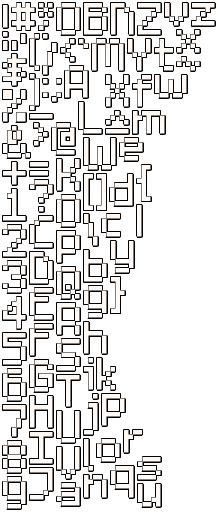
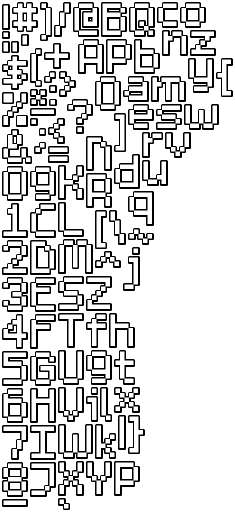
Added the assets to code and coffee
Made a change to the fonr by giving it  larger stroke, removed the smoothing effect from the time display so it doesn't look fuzzy

diff --git a/myGame/js/writeCode.js b/myGame/js/writeCode.js
@@ -3,6 +3,7 @@ code.prototype = {
 	preload: function(){
 		this.load.path = 'assets/img/writeCode/'
 		this.load.atlas('codeTextAtlas','codeTextAtlas.png','codeTextAtlas.json');
+		this.load.image('bg','background.png');
 		this.load.path = 'assets/fonts/';
 		this.load.bitmapFont('font','m5x7.png','m5x7.xml');
 	},
@@ -13,8 +14,10 @@ code.prototype = {
 				'FOCUS','WORTH','ACCOUNT','BENEFIT','COMPANY','DEFICIT','ECONOMY','MANAGER','PENSION'];
 
 
+		game.add.image(0,0,'bg');
+
 		stageTimer = game.time.create(false);
-		stageTimer.add(30000,function(){console.log('AAAAAAAAAAAAAAAAAAAAAAAAAAAAAAAAAAAAAAAAAAAAAAAAAAAAAAAAAAAAAAAAAAAAAAAAAAAAAAAAAAAAAAAAAAAAAAAAAAAAAAAAAAAAAAAAAA')},game);
+		stageTimer.add(30000,function(){console.log('timer'), game.state.start('alarmClock')},game);
 		stageTimer.start();
 
 		wordsNeeded = 5;
@@ -27,7 +30,7 @@ code.prototype = {
 	 	enter.onDown.add(this.enterLetter,this);
 
 	 	//starting position of the "on screen keyboard"
-		var y = 400;
+		var y = 390;
 		var x = 0;
 		//the letter they are on
 		index = 1;
@@ -42,13 +45,13 @@ code.prototype = {
 				id = '' + i;
 			}
 			if(i==14){
-				y = 460;
+				y = 450;
 				x = 0;
 			}
 			if(i==24){
 				x+=6
 			}
-			this.add.sprite(x+16,y,'codeTextAtlas',id);
+			letter = this.add.sprite(x+16,y,'codeTextAtlas',id);
 			x+=36;
 		}
 		text = 'hi';
@@ -61,13 +64,21 @@ code.prototype = {
     	down = game.input.keyboard.addKey(Phaser.Keyboard.S);
     	left = game.input.keyboard.addKey(Phaser.Keyboard.A);
     	right = game.input.keyboard.addKey(Phaser.Keyboard.D);
+    	upKey = game.input.keyboard.addKey(Phaser.Keyboard.UP);
+    	downKey = game.input.keyboard.addKey(Phaser.Keyboard.DOWN);
+    	leftKey = game.input.keyboard.addKey(Phaser.Keyboard.LEFT);
+    	rightKey = game.input.keyboard.addKey(Phaser.Keyboard.RIGHT);
 
     	scoreDisplay = new Score();
+    	healthBG = new HealthBG();
+    	healthDisplay = new Health();
 
     	scoreWord = words[Math.floor(Math.random() * words.length)];
-		typeThis = game.add.bitmapText(game.world.centerX-200,game.world.centerY-125,"font", 'TYPE: ' + scoreWord, 60);
-		amountDisplay = game.add.bitmapText(game.world.centerX-200,game.world.centerY-160,"font", 'WORDS LEFT: ' + wordsNeeded, 60);
-
+		typeThis = game.add.bitmapText(game.world.centerX,game.world.centerY-160,"font", 'TYPE: ' + scoreWord, 60);
+		typeThis.anchor.setTo(0.5,0);
+		typeThis.tint = 0x39ff14;
+		amountDisplay = game.add.bitmapText(game.world.centerX,game.world.centerY-125,"font", 'WORDS LEFT: ' + wordsNeeded, 60);
+		amountDisplay.anchor.setTo(0.5,0);
 
 
 	},
@@ -77,7 +88,7 @@ code.prototype = {
 	},
 	move: function(){
 		//move our select cursor and allow it to wrap around the keyboard
-		if(up.justPressed()){
+		if(up.justPressed() || upKey.justPressed()){
 			if(index<13){
 				index+=13;
 				select.y+=60;
@@ -87,7 +98,7 @@ code.prototype = {
 				select.y-=60;
 			}
 		}
-		else if(down.justPressed()){
+		else if(down.justPressed() || downKey.justPressed()){
 			if(index>13){
 				index-=13;
 				select.y-=60;
@@ -97,7 +108,7 @@ code.prototype = {
 				select.y+=60;
 			}
 		}
-		else if(left.justPressed()){
+		else if(left.justPressed() || leftKey.justPressed()){
 			if(index == 1 || index == 14){
 				index+=12;
 				select.x+= (36*12);
@@ -107,7 +118,7 @@ code.prototype = {
 				select.x-=36;
 			}
 		}
-		else if(right.justPressed()){
+		else if(right.justPressed() || rightKey.justPressed()){
 			if(index == 13 || index == 26){
 				index-=12;
 				select.x-=(36*12);
@@ -155,7 +166,7 @@ code.prototype = {
 	},
 	checkWord: function(){
 		if(scoreWord===input.text){
-			score+=15;
+			score+=(scoreWord.length*3);
 			scoreWord = words[Math.floor(Math.random() * words.length)];
 			typeThis.text = 'TYPE: ' + scoreWord;
 			input.text = '';

diff --git a/myGame/js/pourCoffee.js b/myGame/js/pourCoffee.js
@@ -3,8 +3,14 @@ var coffee = function () {
 }
 coffee.prototype = {
 	preload: function () {
-		this.load.path = 'assets/img/';
-		this.load.image('player','playerTemp.png');
+		this.load.path = 'assets/img/coffee/';
+		this.load.image('bg','background.png');
+		this.load.image('light','light.png');
+		this.load.image('mug','coffeeMug.png');
+		this.load.image('plane', '../playerTemp.png');
+
+		this.load.path = 'assets/fonts/';
+        this.load.bitmapFont('font','m5x7.png','m5x7.xml');
 	},
 
 	create: function () {
@@ -13,10 +19,13 @@ coffee.prototype = {
 
 		//timer for the stage
 		stageTimer = game.time.create(false);
-		stageTimer.add(30000, function(){console.log('timer')}, game);
+		stageTimer.add(30000, function(){console.log('timer'), game.state.start('code')}, game);
 		stageTimer.start();
 
-		coffeeJug = this.add.sprite(game.world.centerX,0,'player');
+		bg = game.add.image(0,0,'bg');
+		light = game.add.image(0,0,'light');
+
+		coffeeJug = this.add.sprite(game.world.centerX,0,'plane');
 		game.physics.arcade.enable(coffeeJug);
 		coffeeJug.scale.setTo(3,3);
 		coffeeJug.tint = 4169e1;
@@ -33,20 +42,32 @@ coffee.prototype = {
 		coffeeEmitter.setXSpeed(0,0);
 		coffeeEmitter.setYSpeed(500,500);
 		coffeeEmitter.setRotation(0,0);
-		coffeeEmitter.makeParticles('player',0,4000,true,false);
+		//the amount of particles only needs to be 100 due to killing them later. allowing the emmiter can keep
+		coffeeEmitter.makeParticles('plane',0,50,true,false);
+		coffeeEmitter.forEach(function(particle){particle.tint = 0x8B4513}, this);
 		coffeeEmitter.start(false, 3000, 25);	// (explode, lifespan, freq, quantity)
 
+		killPlane = this.add.sprite(0,game.world.height+32,'plane');
+		game.physics.arcade.enable(killPlane);
+		killPlane.scale.setTo(16,1);
+		killPlane.body.immovable = true;
 
-		mug = this.add.sprite(game.world.centerX,game.world.height-96,'player');
+
+		mug = this.add.sprite(game.world.centerX,game.world.height-135,'mug');
 		game.physics.arcade.enable(mug);
-		mug.scale.setTo(2,3);
+		mug.scale.setTo(0.5,0.5);
 		//setSize(width, height,relative X, relative Y)
-		mug.body.setSize(mug.width/2, 1, 0, 0);
+		mug.body.setSize(mug.width+30, 15, 0, 0);
 		mug.body.immovable = true;
 		mug.anchor.setTo(0.5,0);
 		count = 0;
+		hpCount = 0;
+
+		console.log(game.world.height);
 
 		scoreDisplay = new Score();
+		healthBG = new HealthBG();
+		healthDisplay = new Health();
 
 	},
 	update: function () {
@@ -56,8 +77,9 @@ coffee.prototype = {
 
 		//calls the function on each particle/child
 		coffeeEmitter.forEach(this.checkCollision, this);
-		
-
+	},
+	render: function(){
+		game.debug.body(mug);
 	},
 	jugSpeed: function() {
 		if(coffeeJug.x == coffeeJug.width/2){
@@ -74,8 +96,15 @@ coffee.prototype = {
 		if(game.physics.arcade.collide(particle,mug)){
 			particle.kill();
 			count++;
-			if(count%10==0){
-				score+=2;
+			if(count%5==0){
+				score+=1;
+			}
+		}
+		if(game.physics.arcade.collide(particle,killPlane)){
+			particle.kill();
+			hpCount++;
+			if(hpCount%5==0){
+				health-=2;
 			}
 		}		
 	},

diff --git a/myGame/js/bed.js b/myGame/js/bed.js
@@ -78,7 +78,10 @@ bed.prototype = {
     	down = game.input.keyboard.addKey(Phaser.Keyboard.S);
     	left = game.input.keyboard.addKey(Phaser.Keyboard.A);
     	right = game.input.keyboard.addKey(Phaser.Keyboard.D);
-
+		upKey = game.input.keyboard.addKey(Phaser.Keyboard.UP);
+    	downKey = game.input.keyboard.addKey(Phaser.Keyboard.DOWN);
+    	leftKey = game.input.keyboard.addKey(Phaser.Keyboard.LEFT);
+    	rightKey = game.input.keyboard.addKey(Phaser.Keyboard.RIGHT);
     	
 		lightsTimerDisplay = game.add.bitmapText(game.world.centerX-150, 32,'font', 'Lights off in...' + Math.round((lightSwitch.duration)/1000),48);
 		
@@ -98,19 +101,19 @@ bed.prototype = {
         }
 	},
 	move: function(){
-		if(up.justPressed()){
+		if(up.justPressed()||upKey.justPressed()){
 			player.body.y-=32;
 			//console.log(player.body.x,player.body.y);
 		}
-		else if(down.justPressed()){
+		else if(down.justPressed()||downKey.justPressed()){
 			player.body.y+=32;
 			//console.log(player.body.x,player.body.y);
 		}
-		else if(left.justPressed()){
+		else if(left.justPressed()||leftKey.justPressed()){
 			player.body.x-=32;
 			//console.log(player.body.x,player.body.y);
 		}
-		else if(right.justPressed()){
+		else if(right.justPressed()||rightKey.justPressed()){
 			player.body.x+=32;
 			//console.log(player.body.x,player.body.y);
 		}

diff --git a/myGame/js/stamping.js b/myGame/js/stamping.js
@@ -27,7 +27,7 @@ stamping.prototype = {
 
 		//create 30 second timer for the stage
 		stageTimer = game.time.create(false);
-		stageTimer.add(30000,function(){game.state.start('alarmClock')},game);
+		stageTimer.add(30000,function(){game.state.start('coffee')},game);
 		stageTimer.start();
 
 		//add paper stack

diff --git a/myGame/js/timeDisplay.js b/myGame/js/timeDisplay.js
@@ -4,6 +4,8 @@ var TimeDisplay = function(timer){
 	this.alpha = 0.50;
 	this.anchor.setTo(0.5,0.35);
 	tempTimer = timer;
+	this.tint = 0xfeffff;
+	this.smoothed = false;
 }
 TimeDisplay.prototype = Object.create(Phaser.BitmapText.prototype);
 TimeDisplay.prototype.constructor = TimeDisplay;
